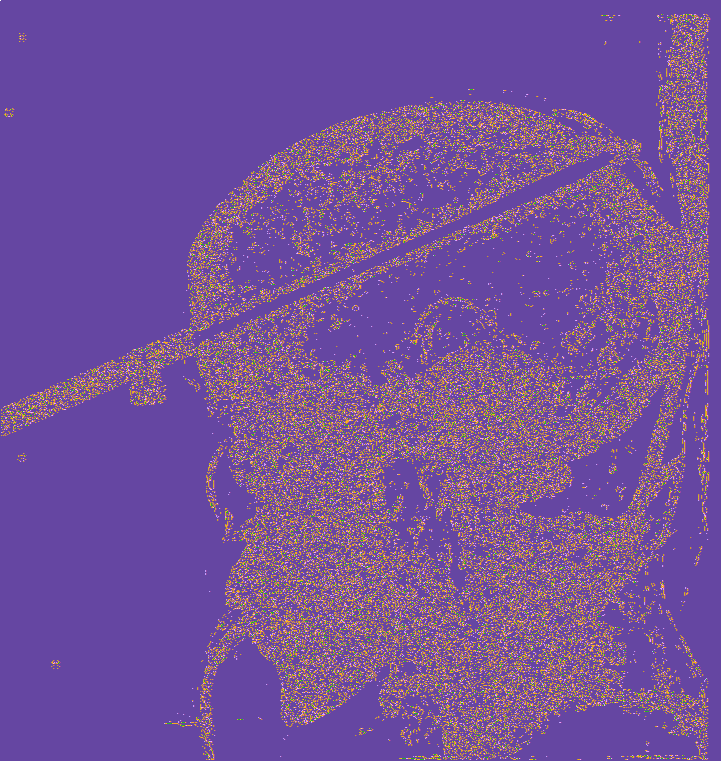
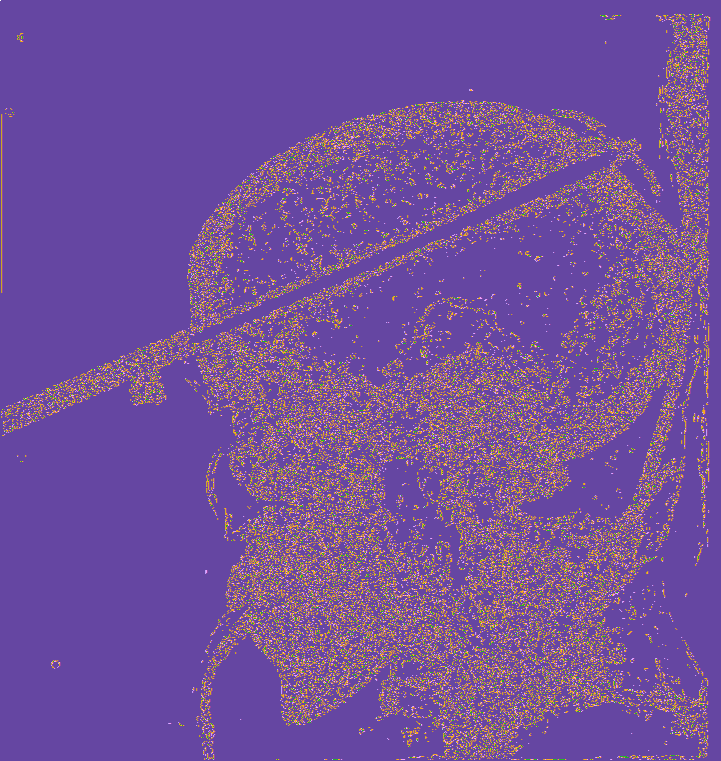
ssgsp

Changed region(s): [[0.0, 0.0, 1.0, 1.0], [0.4577, 0.9974, 0.4882, 1.0], [0.0, 0.1511, 0.0305, 0.1813]]

diff --git a/1course.c b/1course.c
@@ -168,13 +168,13 @@ int main() {
     char* data = (char*)malloc(n*w*h*sizeof(char));
 
     Sobel(image, image_0, w, h);
-    Gauss(image_0, image_2, w, h);
-    Sobel(image_2, image_3, w, h);
+    Sobel(image_0, image_2, w, h);
+    Gauss(image_2, image_3, w, h);
     Sobel(image_3, image_1, w, h);
     preparation(image_1, w, h);
     colouring(image_1, data, w, h, n);
   /*  int* comps = (int*)malloc((n*w*h)*sizeof(int));
-    for (i=0; i < w*h; i++) comps[i] = 0;
+    for (i=0; i < n*w*h; i++) comps[i] = 0;
 
     for (i = 2; i < h-1; i++)
         for (j = 2; j < w-1; j++)
@@ -198,5 +198,4 @@ int main() {
     writePng(new_image, data, w, h);
 
     return 0;
-}
-                                                               
+}                                         
